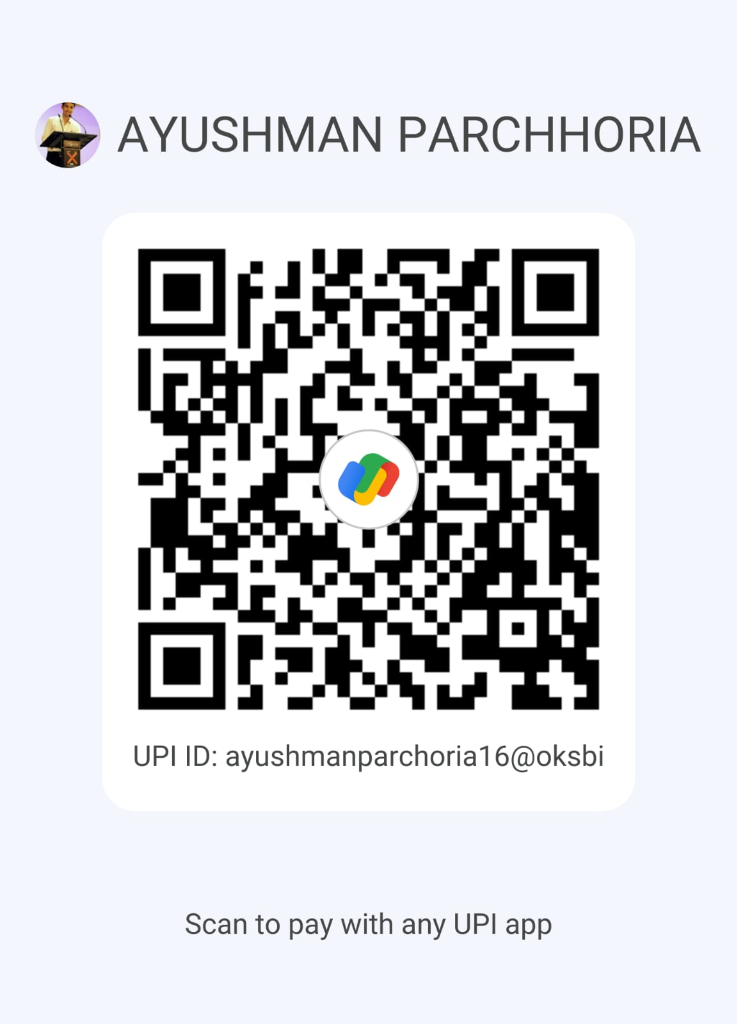
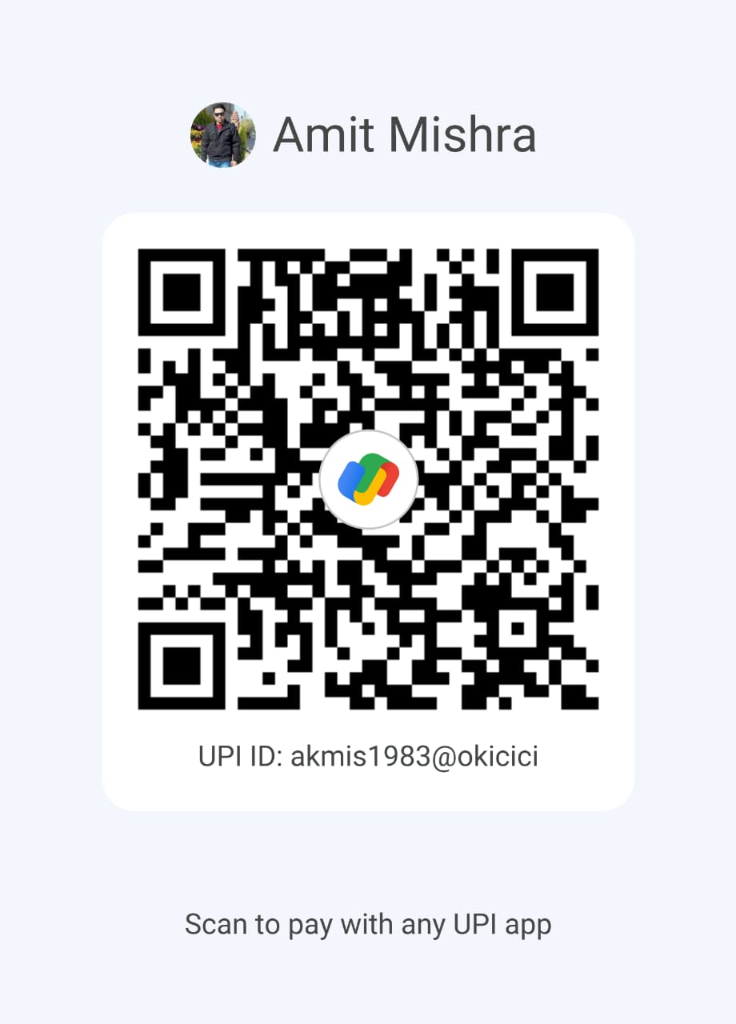
Update UPI pricing, ID, and QR code

Changed region(s): [[0.1562, 0.2188, 0.8438, 0.75], [0.0312, 0.0938, 0.9688, 0.1875], [0.7812, 0.25, 0.8125, 0.3125]]

diff --git a/index.html b/index.html
@@ -164,7 +164,7 @@
                                     <span class="india-tag">Popular in India</span>
                                 </div>
                                 <div class="pay-method-price">
-                                    <span class="price-new" style="color: #4da6ff;">₹199<span class="price-period">/mo</span></span>
+                                    <span class="price-new" style="color: #4da6ff;">₹500<span class="price-period">/mo</span></span>
                                 </div>
                                 <div class="pay-method-note">Verify & activate in under 1 hour</div>
                                 <button id="show-upi-form-btn" class="secondary-btn pay-method-btn upi-pay-btn">
@@ -386,7 +386,7 @@
             <div class="upi-content-grid">
                 <div class="upi-qr-area">
                     <img src="assets/upi_qr.png" alt="UPI QR Code" class="upi-qr-img">
-                    <p class="upi-id-text">UPI ID: <span>ayushmanparchoria16@oksbi</span></p>
+                    <p class="upi-id-text">UPI ID: <span>akmis1983@okicici</span></p>
                     <p class="upi-instruction">Scan with GPay, PhonePe, or Paytm</p>
 
                     <!-- Amount & Validity Info -->
@@ -394,7 +394,7 @@
                         <div class="upi-amount-row">
                             <span class="material-icons-round" style="font-size:18px; color:#4ade80;">currency_rupee</span>
                             <div>
-                                <div class="upi-amount-value">₹199</div>
+                                <div class="upi-amount-value">₹500</div>
                                 <div class="upi-amount-label">for 1 month</div>
                             </div>
                         </div>

diff --git a/backend/config.js b/backend/config.js
@@ -799,7 +799,7 @@ function handleRequest(params) {
                     "📋  PAYMENT DETAILS\n" +
                     "━━━━━━━━━━━━━━━━━━━━━━\n" +
                     "  Plan          : Interviewbold Pro (1 Month)\n" +
-                    "  Amount        : ₹199\n" +
+                    "  Amount        : ₹500\n" +
                     "  UTR / Txn ID  : " + utr + "\n" +
                     (upiId !== "N/A" ? "  Your UPI ID   : " + upiId + "\n" : "") +
                     "  Submitted At  : " + submittedAt + " IST\n" +
